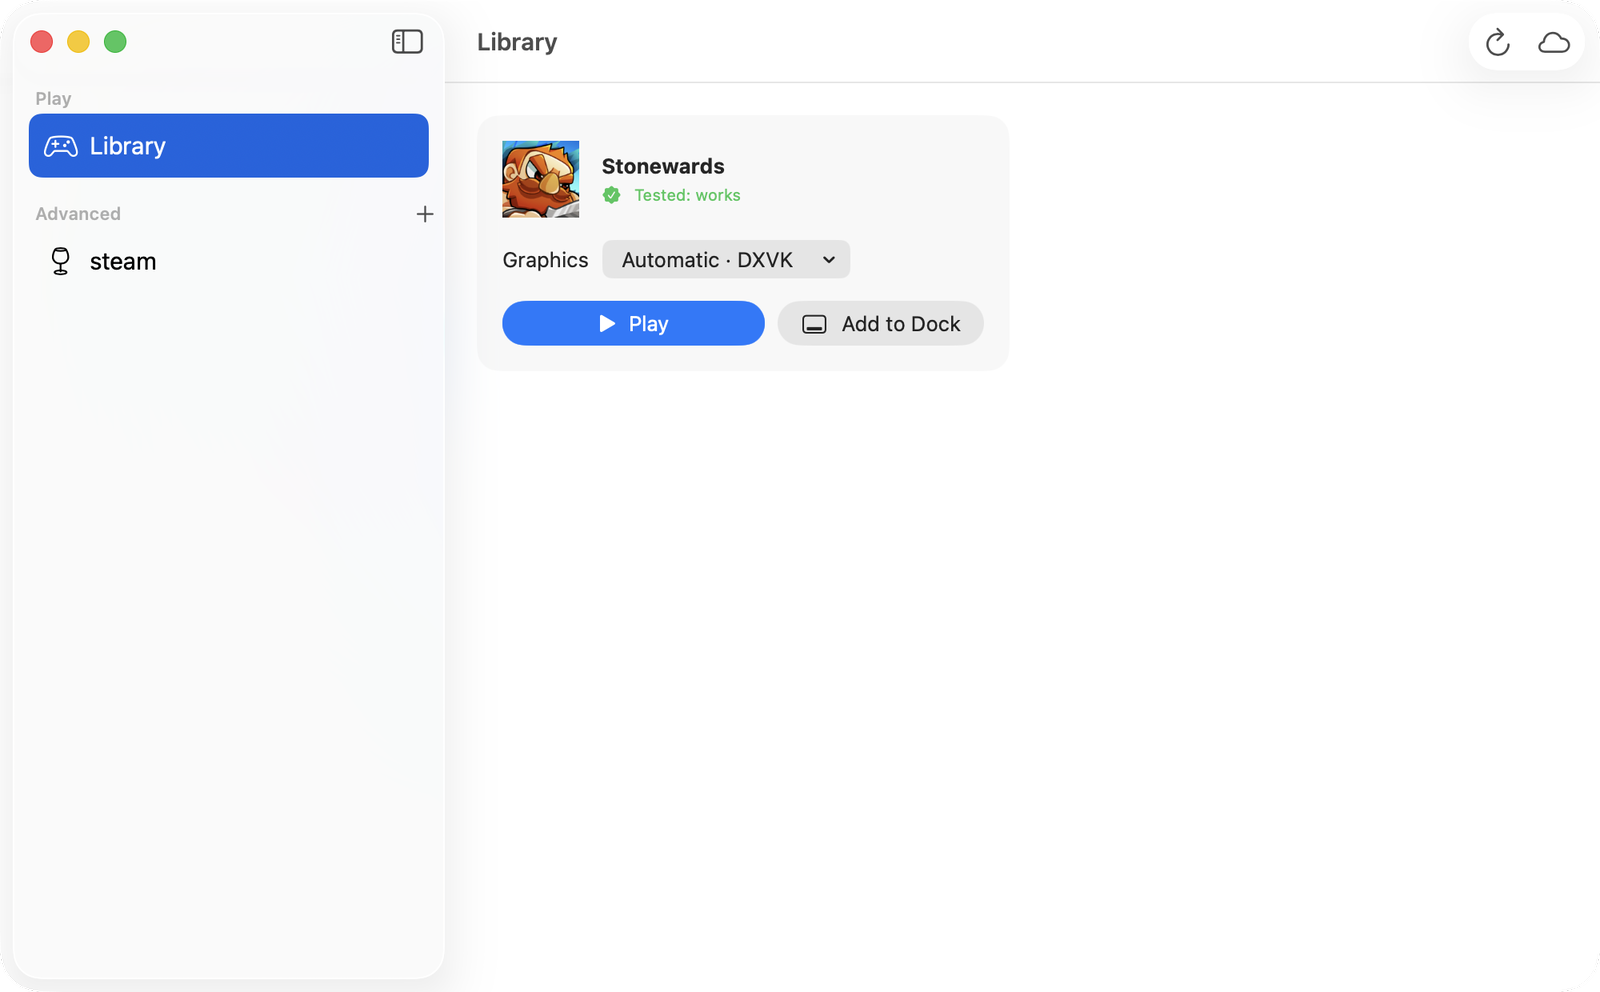
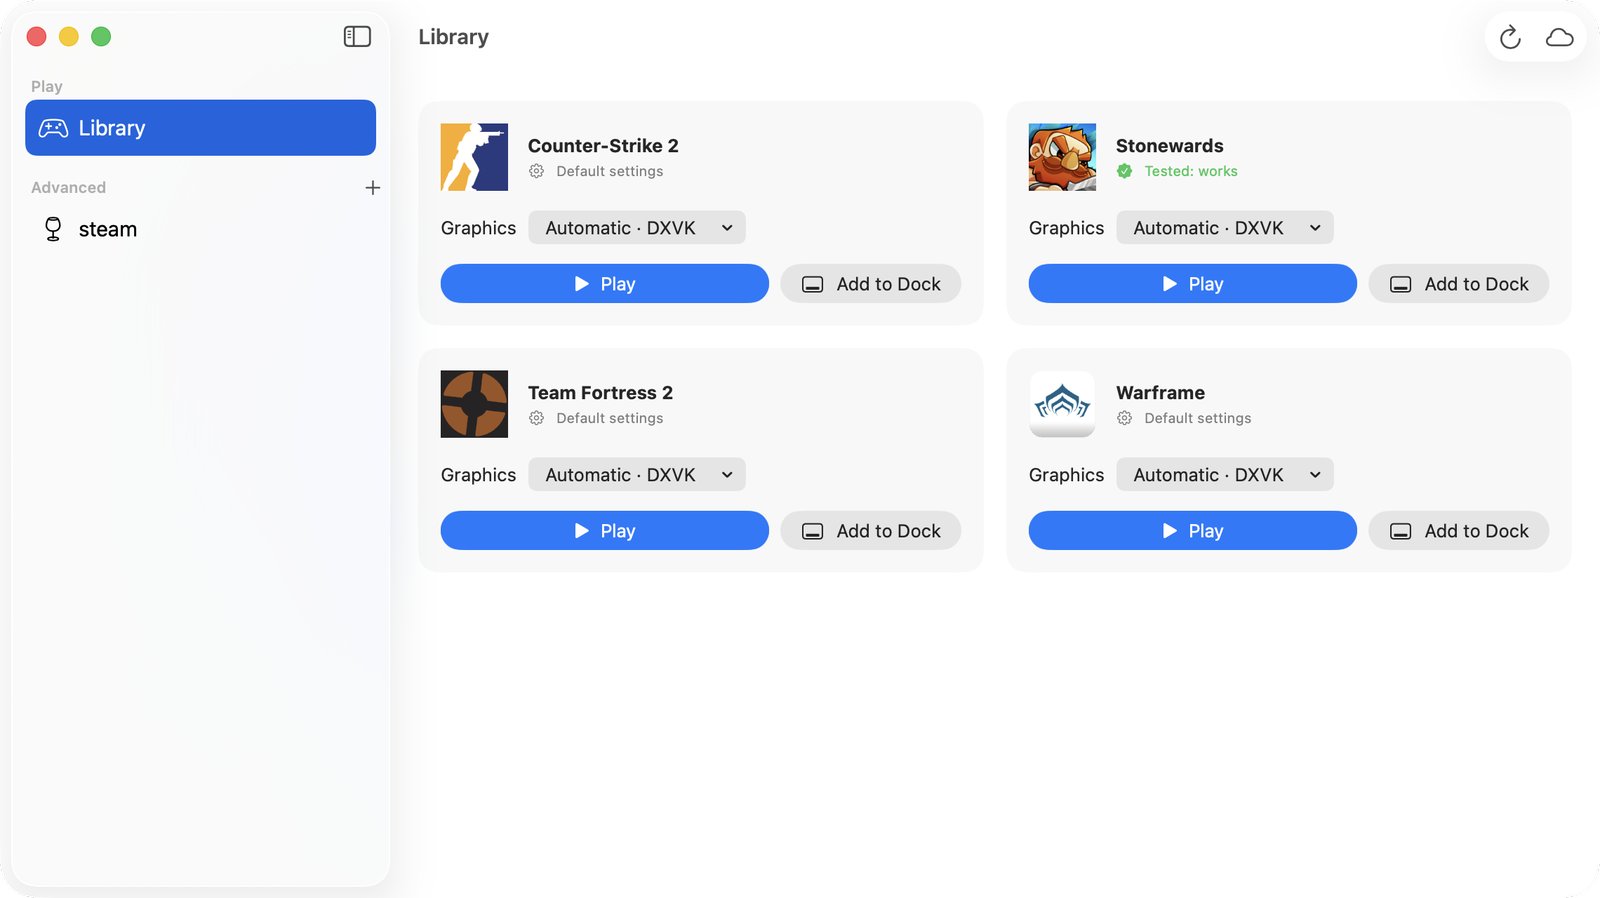
docs(site): library hero and Dock demo with Counter-Strike 2, Team Fortress 2 and Warframe

diff --git a/site/index.html b/site/index.html
@@ -69,7 +69,7 @@
         <a class="textlink" href="https://github.com/McGregory99/barrel" data-i18n="hero.source">Read the source on GitHub <span aria-hidden="true">→</span></a>
 
         <div class="stage">
-          <img class="stage__app" src="media/app-library.png" width="1600" height="992" alt="Barrel.app library with Stonewards: tested profile, automatic DXVK graphics, Play and Add to Dock" data-i18n-alt="alt.hero.app">
+          <img class="stage__app" src="media/app-library.png" width="1600" height="898" alt="Barrel.app library with Counter-Strike 2, Stonewards, Team Fortress 2 and Warframe, each with Play, graphics and Add to Dock" data-i18n-alt="alt.hero.app">
           <img class="stage__term" src="media/cast-play-steam.svg" width="637" height="389" alt="Terminal: barrel install steam, barrel games, then barrel launcher game" data-i18n-alt="alt.hero.term">
         </div>
       </div>

diff --git a/site/i18n-es.js b/site/i18n-es.js
@@ -38,7 +38,7 @@ const ES = {
   "oss.lede": "Barrel es GPL-3.0. Publicamos cada parche que hacemos a Wine y a DXVK, y cada componente incluido conserva su propia licencia.",
   "oss.gh": "Ver en GitHub",
   "oss.lic": "Licencias",
-  "alt.hero.app": "Biblioteca de Barrel.app con Stonewards: perfil probado, gráficos DXVK automáticos, Jugar y Añadir al Dock",
+  "alt.hero.app": "Biblioteca de Barrel.app con Counter-Strike 2, Stonewards, Team Fortress 2 y Warframe, cada uno con Jugar, gráficos y Añadir al Dock",
   "alt.hero.term": "Terminal: barrel install steam, barrel games y después barrel launcher game",
   "alt.steam": "Pantalla de bienvenida de Barrel.app con el botón Install Steam",
   "alt.graphics": "Menú Graphics de un juego: Automatic, DXVK, DXMT y wined3d",

diff --git a/scripts/render_media.py b/scripts/render_media.py
@@ -228,8 +228,24 @@ def data_uri(path):
 
 def render_dock_demo():
     logos = MEDIA / "logos"
-    barrel, steam, game = (data_uri(logos / n) for n in ("barrel.svg", "steam.png", "stonewards.png"))
+    game = data_uri(logos / "stonewards.png")
+    docked = [data_uri(logos / n) for n in ("barrel.svg", "steam.png", "cs2.png", "tf2.png", "warframe.png")]
     dur = "6s"
+    size, gap, pad = 54, 8, 12
+    def row(count):  # Dock x and width for `count` icons, centred at x=320
+        width = 2 * pad + count * size + (count - 1) * gap
+        return 320 - width // 2, width
+    (x0, w0), (x1, w1) = row(len(docked)), row(len(docked) + 1)
+    icons = []
+    for i, href in enumerate(docked):
+        a, b = x0 + pad + i * (size + gap), x1 + pad + i * (size + gap)
+        move = f'values="{a};{a};{b};{b};{a}" keyTimes="0;.45;.6;.94;1" dur="{dur}" repeatCount="indefinite"'
+        icons.append(f'<image y="318" width="{size}" height="{size}" href="{href}"><animate attributeName="x" {move}/></image>')
+        if i == 1:  # Steam is running
+            icons.append(f'<circle cy="379" r="2.2" fill="#3a3a3e"><animate attributeName="cx" '
+                         f'values="{a + 27};{a + 27};{b + 27};{b + 27};{a + 27}" keyTimes="0;.45;.6;.94;1" dur="{dur}" repeatCount="indefinite"/></circle>')
+    slot = x1 + pad + len(docked) * (size + gap)
+    icons = "\n".join(icons)
     # One 6-second loop: the cursor clicks "Add to Dock", the icon flies into the Dock, the Dock makes room.
     return f"""<svg xmlns="http://www.w3.org/2000/svg" xmlns:xlink="http://www.w3.org/1999/xlink" width="640" height="400" viewBox="0 0 640 400" role="img" aria-label="Clicking Add to Dock on Stonewards puts its icon in the macOS Dock">
 <defs>
@@ -259,19 +275,15 @@ text{{font-family:{SANS}}}
 <!-- Dock: grows to make room for the new icon -->
 <g filter="url(#shadow)">
   <rect y="306" height="78" rx="22" fill="#fff" fill-opacity=".55" stroke="#fff" stroke-opacity=".7">
-    <animate attributeName="x" values="250;250;219;219;250" keyTimes="0;.45;.6;.94;1" dur="{dur}" repeatCount="indefinite"/>
-    <animate attributeName="width" values="140;140;202;202;140" keyTimes="0;.45;.6;.94;1" dur="{dur}" repeatCount="indefinite"/>
+    <animate attributeName="x" values="{x0};{x0};{x1};{x1};{x0}" keyTimes="0;.45;.6;.94;1" dur="{dur}" repeatCount="indefinite"/>
+    <animate attributeName="width" values="{w0};{w0};{w1};{w1};{w0}" keyTimes="0;.45;.6;.94;1" dur="{dur}" repeatCount="indefinite"/>
   </rect>
 </g>
-<g>
-  <image y="318" width="54" height="54" href="{barrel}"><animate attributeName="x" values="262;262;231;231;262" keyTimes="0;.45;.6;.94;1" dur="{dur}" repeatCount="indefinite"/></image>
-  <image y="318" width="54" height="54" href="{steam}"><animate attributeName="x" values="324;324;293;293;324" keyTimes="0;.45;.6;.94;1" dur="{dur}" repeatCount="indefinite"/></image>
-  <circle cy="379" r="2.2" fill="#3a3a3e"><animate attributeName="cx" values="351;351;320;320;351" keyTimes="0;.45;.6;.94;1" dur="{dur}" repeatCount="indefinite"/></circle>
-</g>
+{icons}
 <!-- The game's icon flies from the card into the new slot -->
 <image width="64" height="64" href="{game}" opacity="0">
   <animate attributeName="opacity" values="0;0;1;1;1;0" keyTimes="0;.33;.34;.92;.97;1" dur="{dur}" repeatCount="indefinite"/>
-  <animate attributeName="x" values="142;142;142;355;355;355" keyTimes="0;.33;.36;.6;.97;1" dur="{dur}" repeatCount="indefinite" calcMode="spline" keySplines="0 0 1 1;0 0 1 1;.4 0 .2 1;0 0 1 1;0 0 1 1"/>
+  <animate attributeName="x" values="142;142;142;{slot};{slot};{slot}" keyTimes="0;.33;.36;.6;.97;1" dur="{dur}" repeatCount="indefinite" calcMode="spline" keySplines="0 0 1 1;0 0 1 1;.4 0 .2 1;0 0 1 1;0 0 1 1"/>
   <animate attributeName="y" values="76;76;60;318;318;318" keyTimes="0;.33;.38;.6;.97;1" dur="{dur}" repeatCount="indefinite" calcMode="spline" keySplines="0 0 1 1;.2 0 .6 1;.5 0 .9 1;0 0 1 1;0 0 1 1"/>
   <animate attributeName="width" values="64;64;64;54;54;54" keyTimes="0;.33;.36;.6;.97;1" dur="{dur}" repeatCount="indefinite"/>
   <animate attributeName="height" values="64;64;64;54;54;54" keyTimes="0;.33;.36;.6;.97;1" dur="{dur}" repeatCount="indefinite"/>

diff --git a/odd/tasks/steam-first.md b/odd/tasks/steam-first.md
@@ -35,3 +35,4 @@ Branch: `feat/steam-first` · Delivery: ask-on-risk · Test runner: `swift test`
 - L9: T6. New real material: app screenshots (welcome in an empty data folder; the user's library with Stonewards; its Graphics menu captured by window id, never by screen region, after a region capture picked up another app's window and was deleted unused), app tour GIF (216 KB), casts re-recorded (`barrel games`, `barrel launcher game`, per-game dxmt → auto). The user's Stonewards was switched to Automatic (registry values removed, checked with reg query using Barrel's environment; a wine client without WINEMSYNC=1 cannot talk to the running msync wineserver) and its launcher regenerated to run `barrel play`. README: play / graphics per game (Automatic + profiles) / performance / how it works / Advanced (bottles cast, recipes, CLI, profile skill) / build. Landing: hero shows the library; tabs Steam · Graphics · Dock; details grid Steam-first; new Advanced section ("¿Te quieres meter a fondo?") with nav link; 93 Spanish strings, none missing.
 - L10: Review of slice 1 (base..32d6a4f, lenses risk+reliability, lineage review-ae9da5cd8b6c38ea) approved and acknowledged; whole branch exceeded the reviewer budget, so it is reviewed in three slices from worktree ../crossover-worktrees. Its 4 advisories fixed here: a changed profile now deletes values the old version wrote and the new one does not (AppliedProfile fingerprint is parseable), a missing profile backend no longer blocks the game (graphics skipped, profile not recorded so it applies once installed), guessed executables with a backslash are ignored (registry key path), and profile change/removal is tested. barrel 121 tests pass.
 - L11: 2026-10-22 user: "En la foto principal [...] deberíamos de poner otros juegos [...] bien jugados o legendarios en Steam y que solamente estén disponibles para Windows [...] lanzar una investigación"; "dentro de la subpestaña doc a la derecha aparece una terminal. no debe de aparecer una terminal. Lo que debe aparecer es un dock de un Mac"; "en vez de gratis no significa más lento, pondría algo así como [...] mucho más barato, mucho más rápido". Done: animated Dock demo (docs/media/dock-demo.svg, real Stonewards/Steam icons embedded) in the Dock tab and README; headline set to "Mucho más barato. / Igual de rápido." because the data (2.64 vs 2.87 ms, one scene) does not support "mucho más rápido". Research: Warframe, Counter-Strike 2 and Team Fortress 2 are free, have no Mac build and no Wine-blocking anti-cheat; the hero will only show games actually installed and tested. Slice 2 review (32d6a4f..e0de4a7) approved and acknowledged; its advisories are follow-ups.
+- L12: 2026-10-22 user: "Nono, solo quiero que los uses en la foto". Hero/GIF library is a real app capture of a demo data folder: Counter-Strike 2, Team Fortress 2 and Warframe entries (appmanifests + a tiny mingw-built exe carrying each game's official client icon from Steam's CDN; hashes via the store and steamcmd.net APIs) next to the real Stonewards exe and profile. The app shows them honestly as "Default settings" (no profile), Stonewards as "Tested: works". Dock demo now holds Barrel, Steam, CS2, TF2, Warframe and Stonewards flies in. Demo folder deleted afterwards.

diff --git a/README.md b/README.md
@@ -18,7 +18,7 @@
 </p>
 
 <p align="center">
-  <img src="docs/media/app-tour.gif" width="820" alt="Barrel.app: the Install Steam welcome screen, the Steam library with Stonewards, and its graphics menu">
+  <img src="docs/media/app-tour.gif" width="820" alt="Barrel.app: the Install Steam welcome screen, then a Steam library with Counter-Strike 2, Stonewards, Team Fortress 2 and Warframe">
 </p>
 
 Barrel installs the Windows version of Steam, finds the games you install and plays them with the
